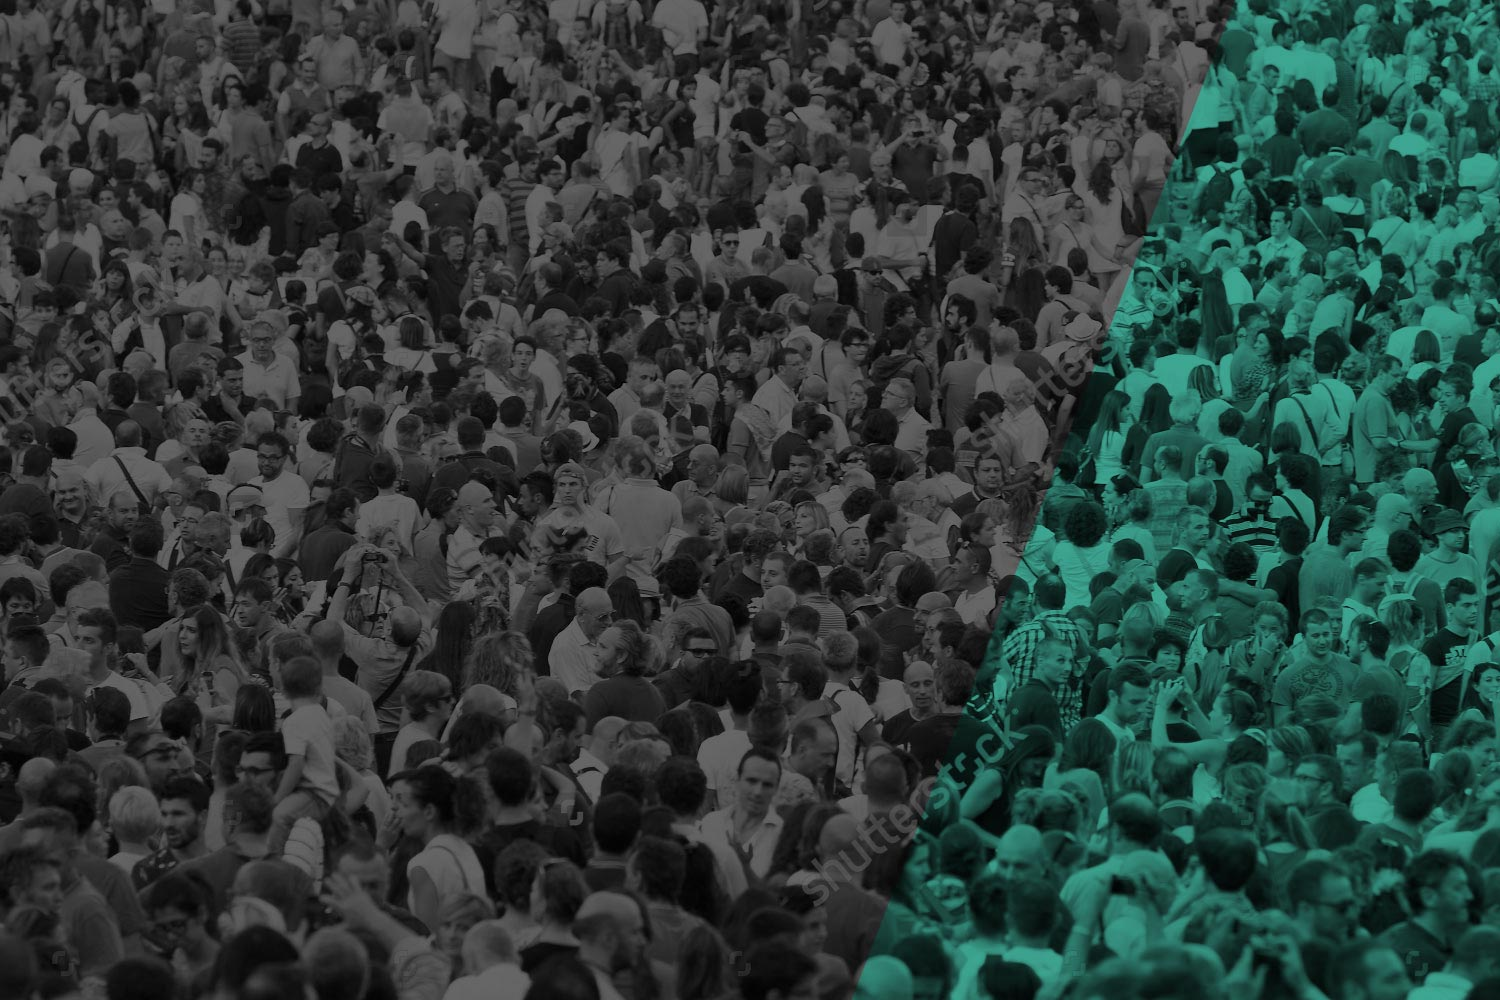
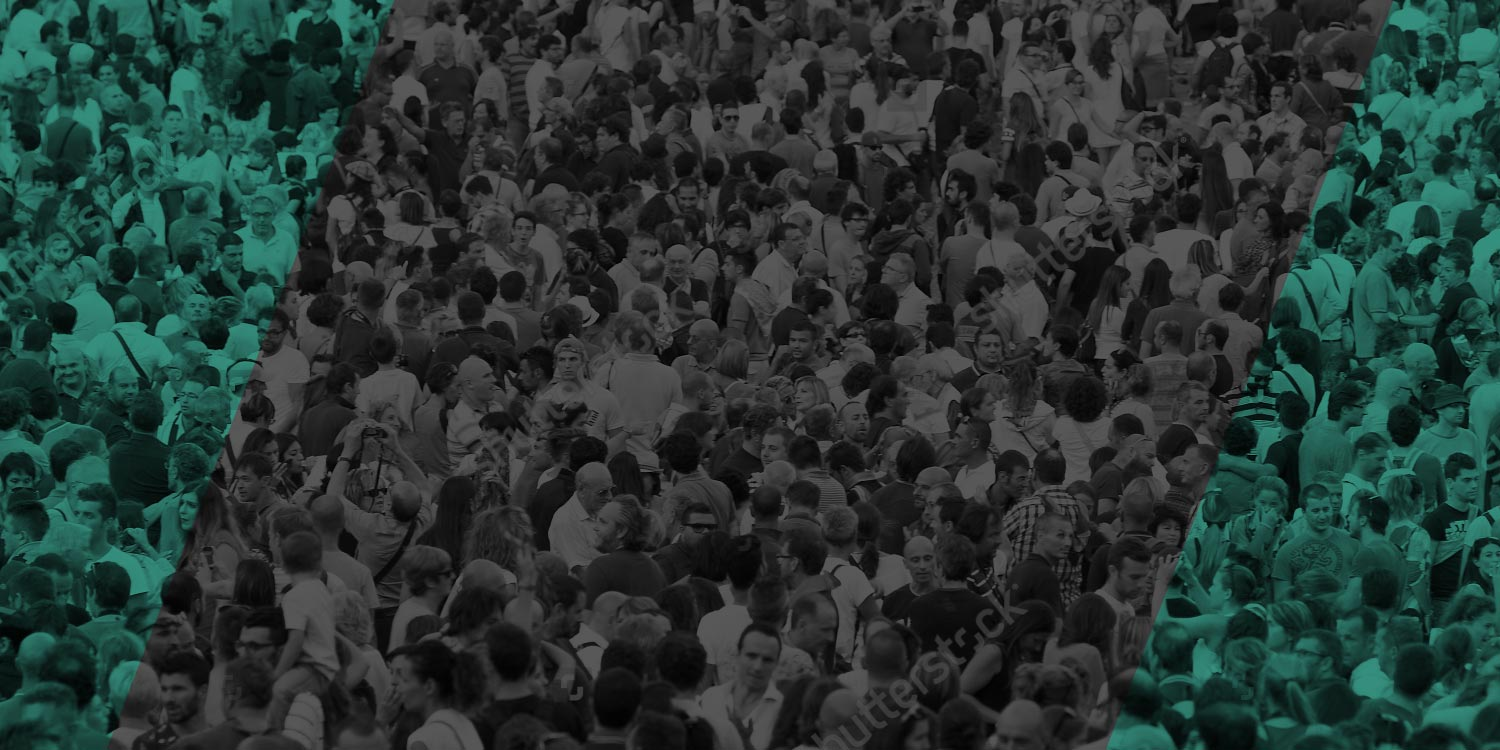
More FAT ML changes

diff --git a/web/sass/fatml/main.scss b/web/sass/fatml/main.scss
@@ -65,7 +65,8 @@ $ui_typeface: Roboto, Helvetica, Arial, sans-serif;
   font-family: $ui_typeface;
   background-color: #293338;
   background-image: url('../img/fatml-hero-background.jpg');
-  background-position: center top;
+  background-position: center 80%;
+  text-align: center;
 }
 
 .homepage-hero__details {
@@ -81,11 +82,12 @@ $ui_typeface: Roboto, Helvetica, Arial, sans-serif;
   font-family: $heading_typeface;
   font-size:  2em;
   line-height: 1.1em;
-  margin-bottom: 1em;
+  margin: 0 0 1em 0;
 
   @media (min-width: $screen-sm-min) {
     font-size: 3.4em;
     max-width: 13em;
+    margin: 0 auto 1em auto;
   }
 }
 
@@ -103,6 +105,7 @@ $ui_typeface: Roboto, Helvetica, Arial, sans-serif;
 .btn--tickets {
   background-color: $color_fatml_yellow;
   color: $color_fatml_grey;
+  float: none;
 
   &:hover,
   &:focus {

diff --git a/ainow/templates/ainow/_nav.html b/ainow/templates/ainow/_nav.html
@@ -1,5 +1,6 @@
-<li {% if schedule.slug == 'conference' and not is_homepage %}class="active"{% endif %}><a href="{% url 'schedule' 'conference' %}">2016 Workshop</a></li>
-<li {% if schedule.slug == 'workshop' %}class="active"{% endif %}><a href="{% url 'schedule' 'workshop' %}">2015 Workshop</a></li>
+<li {% if schedule.slug == '2016' and not is_homepage %}class="active"{% endif %}><a href="{% url 'schedule' '2016' %}">2016</a></li>
+<!--
 <li><a href="#">Organizers</a></li>
 <li><a href="#">Blog</a></li>
-<!-- <li><a href="{% url 'attendees' 'workshop' %}">Attendees &amp; Speakers</a></li> -->
+<li><a href="{% url 'attendees' 'workshop' %}">Attendees &amp; Speakers</a></li>
+-->
